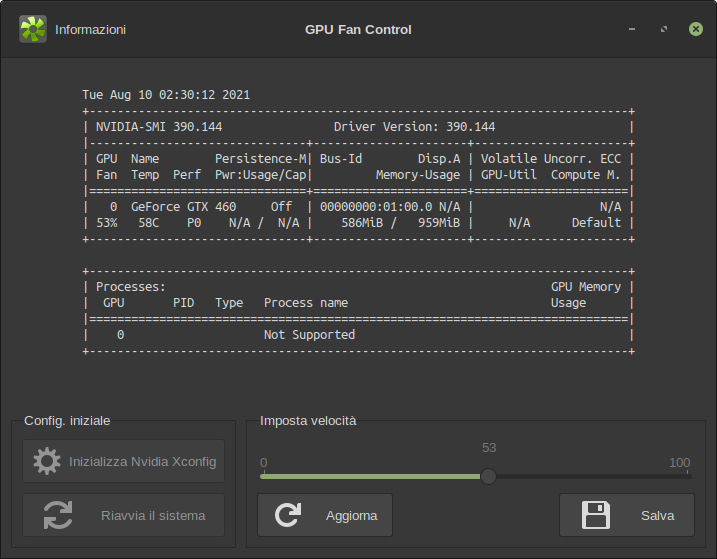
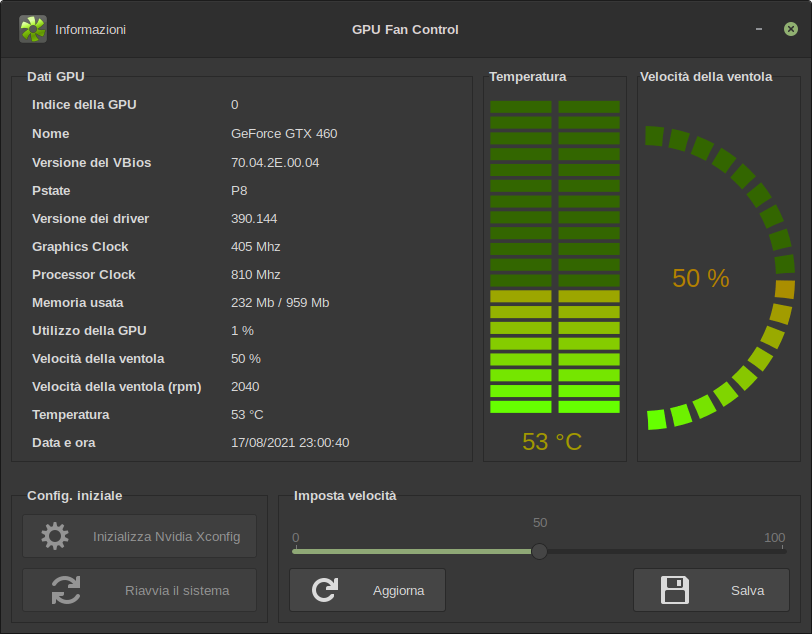
updated screenshot and README.md

diff --git a/README.md b/README.md
@@ -65,6 +65,6 @@ To install the app, open terminal and:
 * [ ] Create a daemon/service to apply custom setting on boot
 * [ ] Add a logging system
 * [x] Replace nvidia-smi results with a custom panel
-* [ ] Add more graphic widgets to the dashboard
+* [x] Add more graphic widgets to the dashboard
 * [ ] Add help window as md or html file
 
